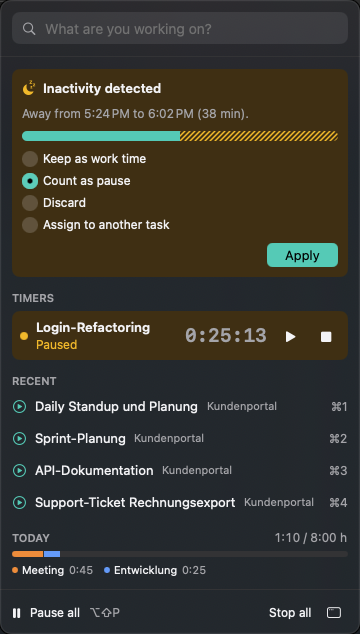
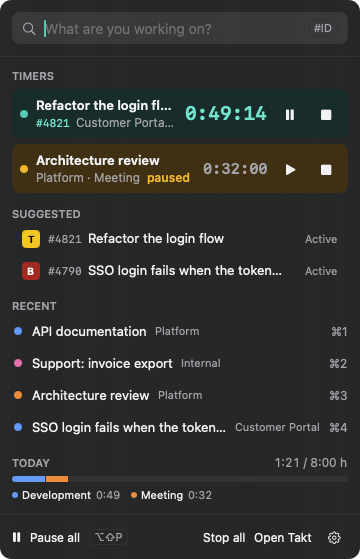
docs(app): refresh the README and its screenshots
The README describes the working time record, the stop panel, the day close and the newer
search and analytics features, and the screenshots show the current app with English sample
data in light and dark. A debug launch argument `-mainDay` opens the main window on a given day.

Claude-Session: https://claude.ai/code/session_01FKGRAm77FvHT4nxJCNkrwL

diff --git a/App/AppDelegate.swift b/App/AppDelegate.swift
@@ -44,7 +44,7 @@ final class AppDelegate: NSObject, NSApplicationDelegate {
 
     #if DEBUG
     // For screenshots and UI tests: `-openPopover YES` / `-openMainWindow YES` show the popover or
-    // main window at launch, `-appearance dark|light` forces an appearance and
+    // main window at launch (`-mainSection`, `-mainDay`), `-appearance dark|light` forces an appearance and
     // `-onboardingCompleted YES` skips the onboarding.
     if let appearance = UserDefaults.standard.string(forKey: "appearance") {
       NSApp.appearance = NSAppearance(named: appearance == "dark" ? .darkAqua : .aqua)
@@ -55,6 +55,13 @@ final class AppDelegate: NSObject, NSApplicationDelegate {
           .flatMap(MainWindowModel.Section.init(rawValue:))
       {
         composition.mainWindow.section = section
+      }
+      // `-mainDay 2026-10-01`: shows that day (and its week) instead of today.
+      if
+        let day = UserDefaults.standard.string(forKey: "mainDay"),
+        let date = try? Date(day, strategy: Date.ISO8601FormatStyle(timeZone: .current).year().month().day())
+      {
+        composition.mainWindow.day = Timestamp(date)
       }
       showMainWindow()
       if let text = UserDefaults.standard.string(forKey: "searchText") {

diff --git a/README.md b/README.md
@@ -22,13 +22,13 @@ A native macOS time tracker that lives in your menu bar, keeps every byte on you
 </div>
 
 > [!NOTE]
-> Takt is pre-release: phases 1–3 are largely implemented; still open are Entra ID sign-in, the Outlook calendar, signed and notarized builds with automatic updates, and a desktop widget. Phase 4 (a working time record under German labor law, with flextime, overtime and vacation accounts) is planned. Releases ship an unsigned Apple Silicon build; see [Install](#install).
+> Takt is pre-release. Phases 1–4 are largely implemented, including the working time record under German labor law with flextime, overtime and vacation accounts. Still open are Entra ID sign-in, the Outlook calendar, signed and notarized builds with automatic updates, a desktop widget and an Excel export. Releases ship an unsigned Apple Silicon build; see [Install](#install).
 
 <div align="center">
 
 <picture>
   <source media="(prefers-color-scheme: dark)" srcset="docs/assets/screenshots/week-dark.png">
-  <img alt="Takt main window showing the week view with entries as colored blocks on a calendar grid" src="docs/assets/screenshots/week-light.png" width="860">
+  <img alt="Takt main window: the week view with entries as colored blocks, pauses hatched, and the inspector of the selected entry on the right" src="docs/assets/screenshots/week-light.png" width="860">
 </picture>
 
 <table>
@@ -36,13 +36,13 @@ A native macOS time tracker that lives in your menu bar, keeps every byte on you
     <td align="center" valign="top">
 <picture>
   <source media="(prefers-color-scheme: dark)" srcset="docs/assets/screenshots/popover-dark.png">
-  <img alt="Takt menu bar popover with search field, inactivity prompt, running timers, recent tasks and a daily progress bar" src="docs/assets/screenshots/popover-light.png" width="280">
+  <img alt="Takt menu bar popover with search field, a running and a paused timer with work item, project and category, suggested work items, recent tasks and a daily progress bar" src="docs/assets/screenshots/popover-light.png" width="280">
 </picture>
     </td>
     <td align="center" valign="top">
 <picture>
   <source media="(prefers-color-scheme: dark)" srcset="docs/assets/screenshots/analytics-dark.png">
-  <img alt="Takt analytics view with totals, a bar chart per day, a project donut and a weekday by hour heatmap" src="docs/assets/screenshots/analytics-light.png" width="560">
+  <img alt="Takt analytics view with key figures compared to the previous week, flex and vacation accounts, a one-line insight, stacked bars per day, a project donut, top work items and a weekday by hour heatmap" src="docs/assets/screenshots/analytics-light.png" width="560">
 </picture>
     </td>
   </tr>
@@ -64,13 +64,15 @@ Time tracking usually happens after the fact and from memory, because starting, 
 
 | | |
 | --- | --- |
-| **Menu bar first** | Start, switch, pause and stop from a popover. Open it with a global shortcut (default `⌥⇧T`), search, press Enter. |
+| **Menu bar first** | Start, switch, pause and stop from a popover. Open it with a global shortcut (default `⌥⇧T`), search, press Enter. Type `@category`, `/project` or `#tag` while starting, or `#4821` to find a work item. |
 | **Main window** | Day timeline and week grid: draw, drag and resize entries, move them to another day, delete by right-click, undo with `⌘Z`. Plus an editable entry list, full-text search and a `⌘K` command palette. |
 | **Parallel timers** | Run several timers at once and count overlapping time as *full* or *split* by weight (e.g. 70/30), globally or per entry. |
-| **Pauses and idle detection** | Per-timer and global pauses. When you come back from an idle period, keep, discard, count as pause or reassign the time. |
+| **Pauses and idle detection** | Per-timer and global pauses. When you come back from an idle period, keep, discard, count as pause or reassign the time, or decide later. |
+| **Stop panel** | Stopping is instant, with an undo toast. Make project, category or work item required, and Takt asks for them before it stops; `⌥`-click opens the panel any time. |
 | **Rules** | Assign category, project and tags automatically, for example "work item type Bug → category Support". |
-| **Azure DevOps** | Search work items, get suggestions from your checked-out Git branch, and book time back as **differences** that stay correct when you edit entries later. |
-| **Analytics** | Stacked bars, distributions, heatmap, focus blocks and context switches, plus CSV, JSON and a PDF report against your weekly target hours. |
+| **Azure DevOps** | Search work items with a compact preview (state, iteration, effort), current sprint first, get suggestions from your checked-out Git branch, and book time back as **differences** that stay correct when you edit entries later. The day close lists what to book; uncheck what should wait. |
+| **Analytics** | Stacked bars, distributions, top work items, heatmap, focus blocks and context switches, compared with the previous period and summed up in one sentence. Export CSV, JSON and a PDF report against your weekly target hours. |
+| **Working time record** | Built for German labor law (ArbZG): start, end, breaks and net time per day with checks for maximum hours, breaks and rest periods, public holidays per state, a change log, flextime, overtime payouts, vacation account and a monthly archive as PDF with a SHA-256 checksum. |
 | **Enterprise ready** | Managed preferences and a sample profile for rollout via Intune or Jamf ([MDM guide](docs/MDM.md)). |
 
 ## Architecture
